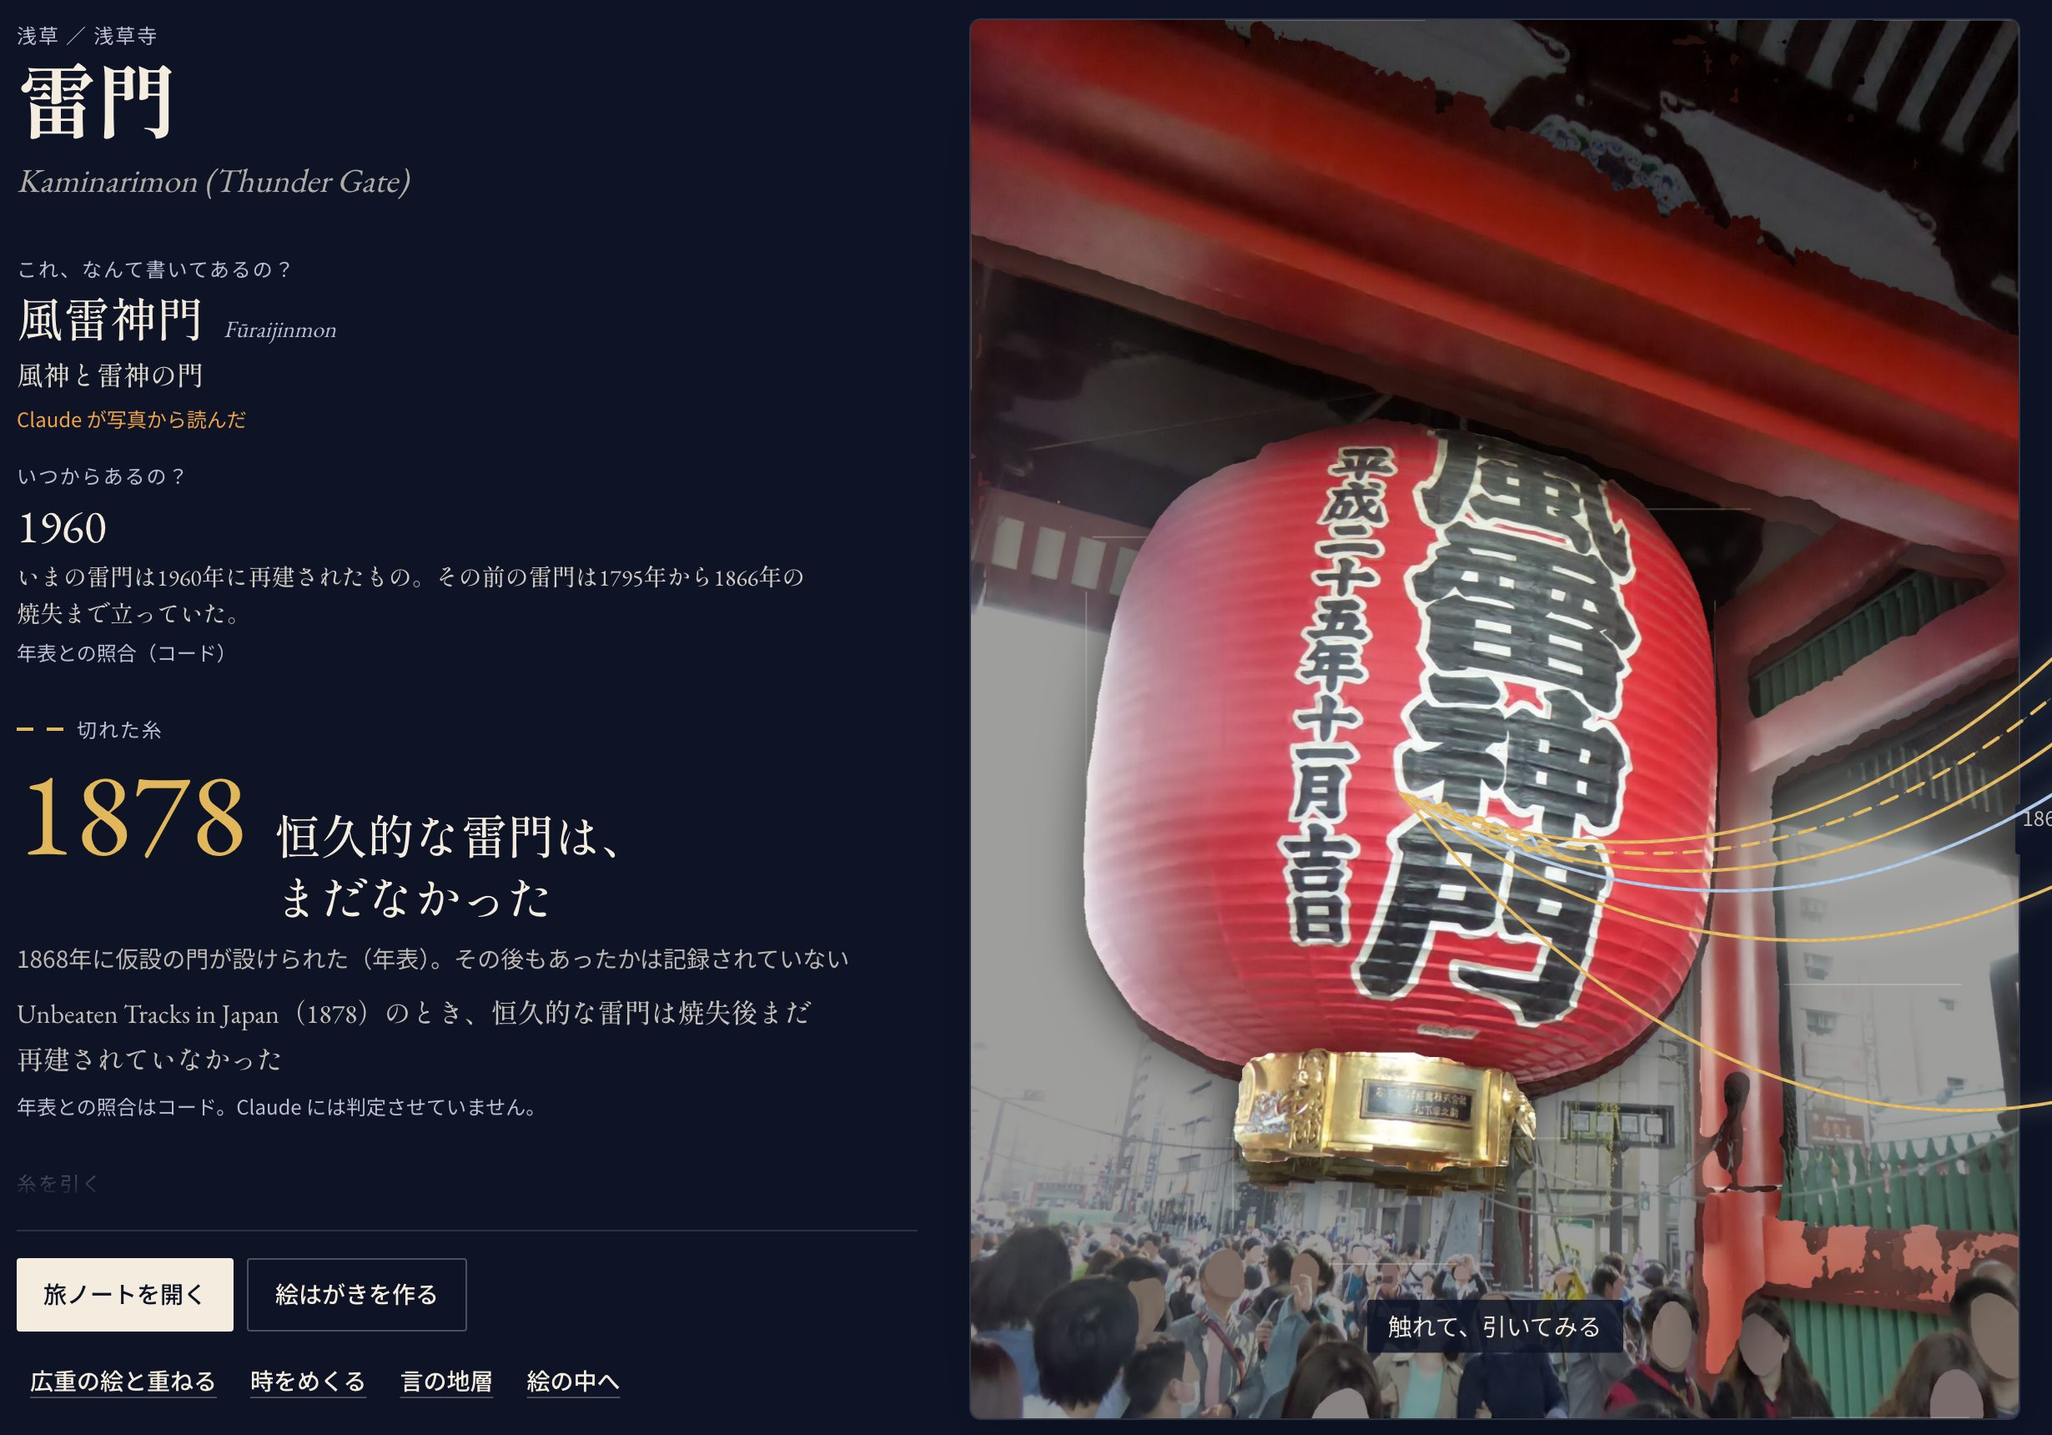
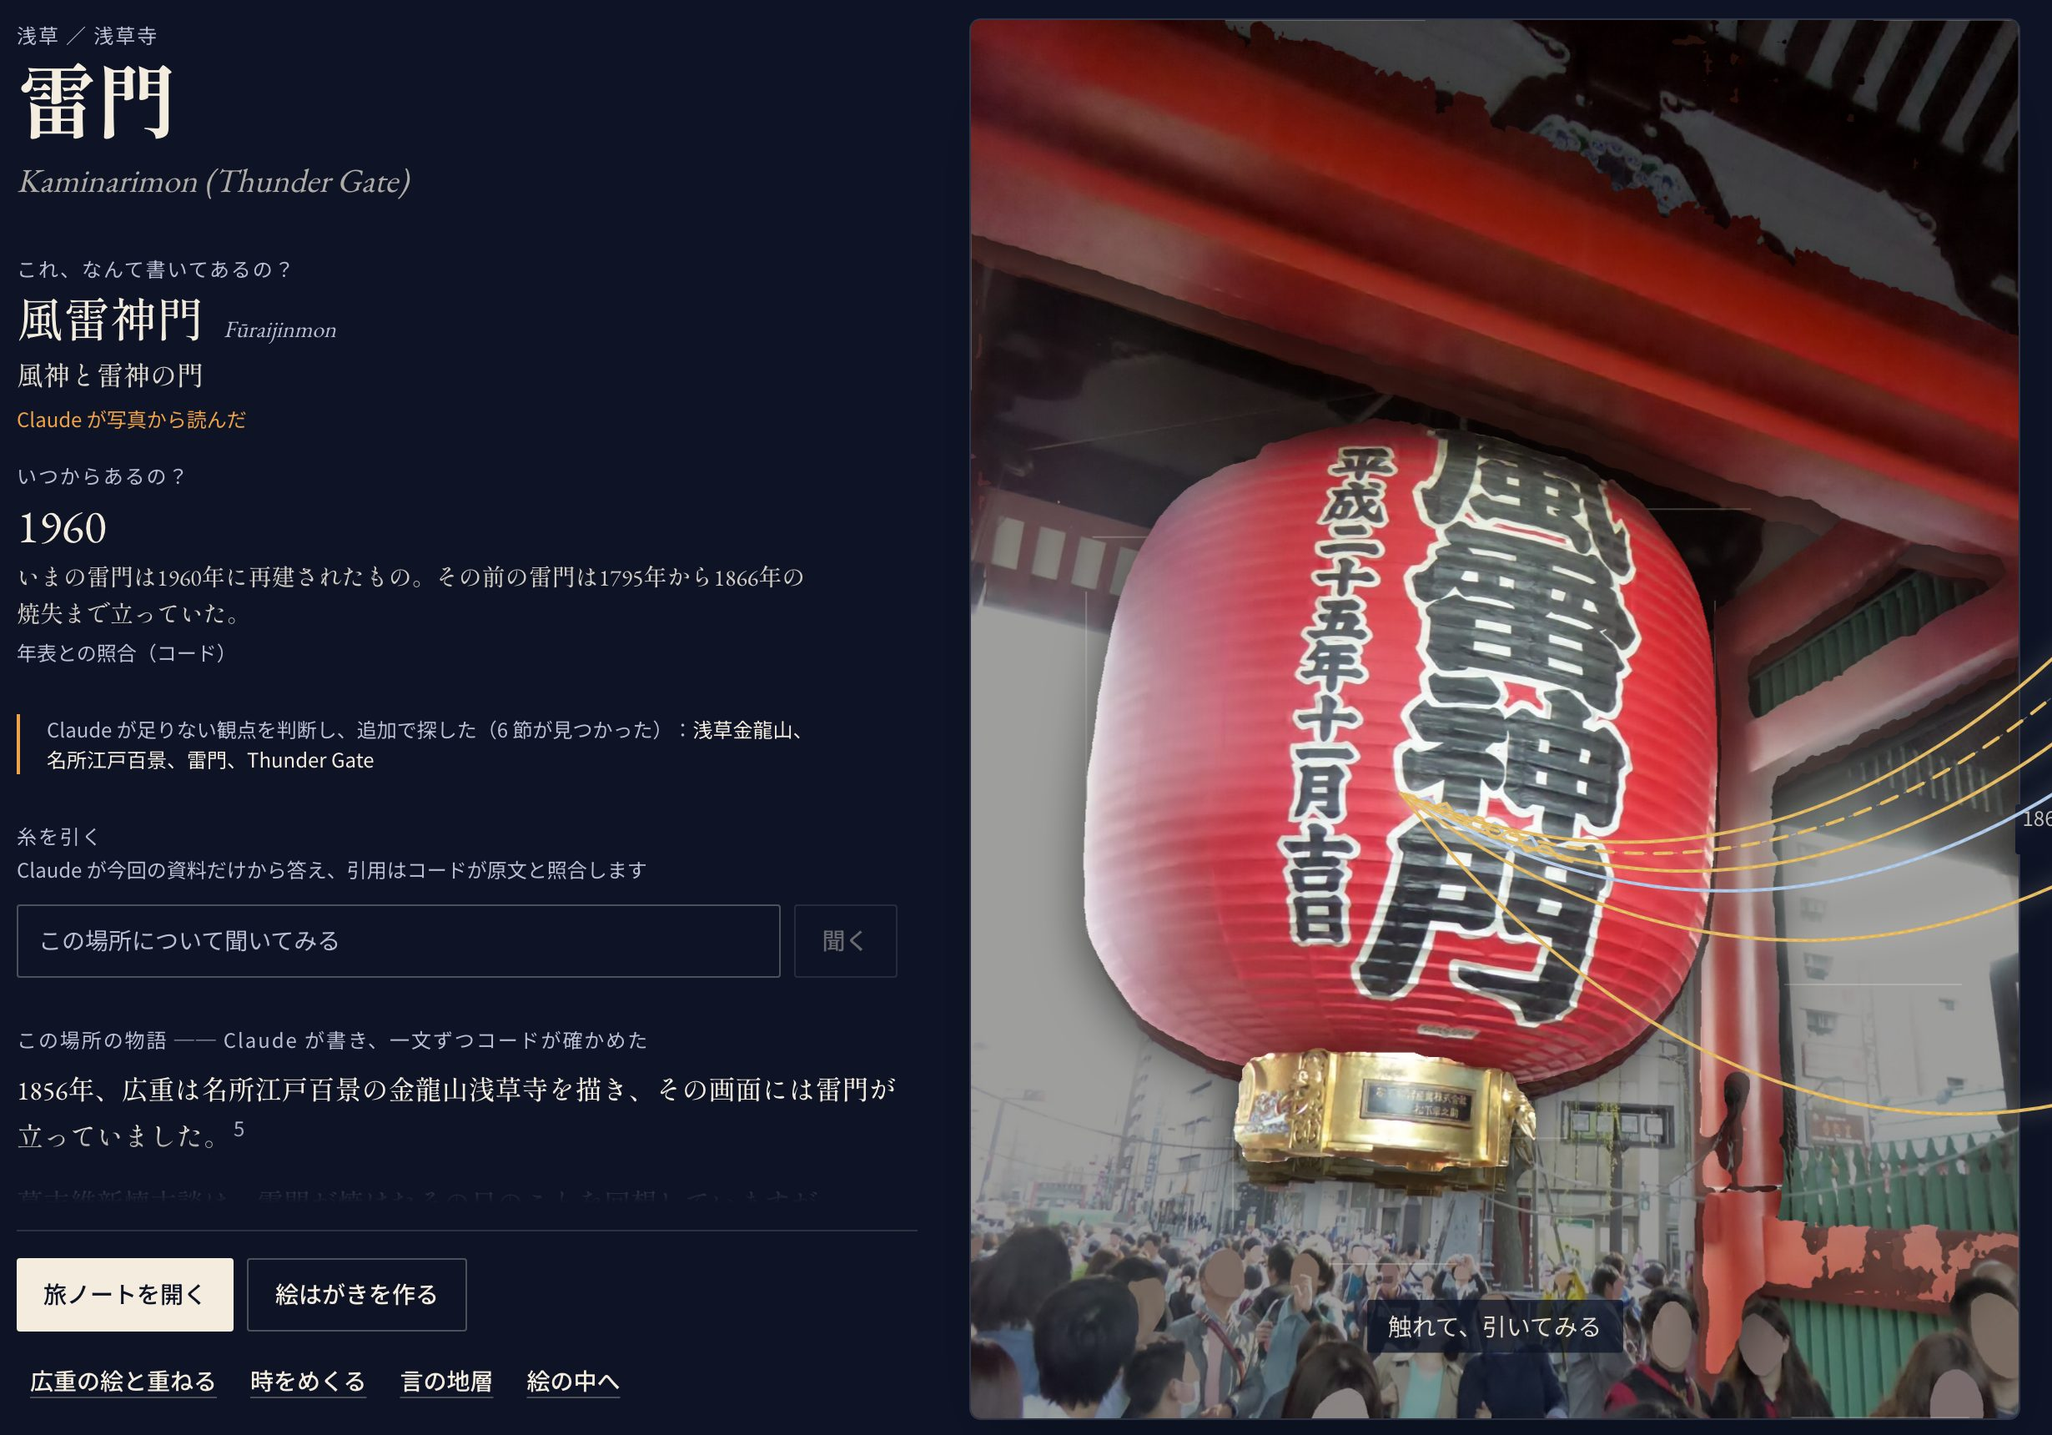
Critique round 8 (a judge who sees only the video, English, sound off): hold=broken also holds the source list's verdict and the cut of the threads; the print's 5.2 s hold runs on a real clock (it no longer stays after a run ends); photo labels in the reader's language and stacked, never overlapping

diff --git a/scripts/storyboard.ts b/scripts/storyboard.ts
@@ -1,0 +1,79 @@
+/**
+ * The video, beat by beat, as stills (docs/demo-script.md): the frames a viewer would see, in presenter
+ * mode, from the public recording (no Claude call). Output: $DATA_DIR/out/screens/storyboard/<lang>/
+ *   npx tsx --env-file=.env scripts/storyboard.ts <baseUrl> <replay id> <scene id> [--lang en] [--w 1920 --h 1080]
+ */
+import { mkdirSync } from "node:fs";
+import path from "node:path";
+import { chromium } from "playwright";
+
+const [base, replay, scene, ...rest] = process.argv.slice(2);
+if (!base || !replay || !scene) throw new Error("usage: storyboard.ts <baseUrl> <replay id> <scene id> [--lang en]");
+const opt = (k: string, d: string) => (rest.includes(k) ? rest[rest.indexOf(k) + 1] : d);
+const lang = opt("--lang", "ja");
+const W = Number(opt("--w", "1920"));
+const H = Number(opt("--h", "1080"));
+const out = path.join(process.env.DATA_DIR!, "out", "screens", "storyboard", lang);
+mkdirSync(out, { recursive: true });
+const browser = await chromium.launch({ args: ["--use-angle=metal", "--enable-gpu", "--ignore-gpu-blocklist"] });
+const ctx = await browser.newContext({ viewport: { width: W, height: H } });
+const u = new URL(base);
+await ctx.addCookies([
+  { name: "tsumugi_token", value: process.env.ACCESS_TOKEN!, domain: u.hostname, path: "/", httpOnly: true, sameSite: "Strict" },
+  { name: "tsumugi_lang", value: lang, domain: u.hostname, path: "/" },
+  { name: "tsumugi_presenter", value: process.env.PRESENTER_TOKEN!, domain: u.hostname, path: "/" },
+]);
+const page = await ctx.newPage();
+const fails: string[] = [];
+const shot = (n: string) => page.screenshot({ path: path.join(out, `${n}.png`) });
+const vis = (id: string) => page.getByTestId(id).filter({ visible: true }).first();
+
+// 1. the question: the landing
+await page.goto(`${base}/`, { waitUntil: "domcontentloaded" });
+await page.waitForTimeout(1500);
+await shot("1-landing");
+// 2. the first answer (the recording, held discovery, half speed)
+await page.goto(`${base}/replay/${replay}?present=1&hold=broken&speed=0.5`, { waitUntil: "domcontentloaded" });
+for (const s of [4, 8, 14, 20]) {
+  await page.waitForTimeout(s === 4 ? 4000 : s === 8 ? 4000 : 6000);
+  await shot(`2-answer-${s}s`);
+}
+await vis("note-link").waitFor({ timeout: 90_000 });
+await page.waitForTimeout(1500);
+await shot("2-answer-done");
+if ((await vis("broken-callout").count()) > 0) fails.push("hold=broken: the 1878 discovery showed before the years were turned");
+// 3. 1878: turn the years on the stage
+const handle = vis("time-handle");
+await handle.focus();
+for (let i = 0; i < 14; i++) await page.keyboard.press("Shift+ArrowUp");
+for (let i = 0; i < 8; i++) await page.keyboard.press("ArrowUp");
+await page.waitForTimeout(2200);
+await shot("3-1878");
+if ((await vis("broken-callout").count()) === 0) fails.push("1878: the discovery did not show after turning the years");
+// 4. the time panel: 1866, then let it flow to the rebuild
+await vis("time-toggle").click();
+const panel = page.getByTestId("time-panel");
+await panel.getByRole("slider").fill("1866");
+await page.waitForTimeout(1200);
+await shot("4-1866");
+await panel.getByRole("slider").fill("1961");
+await page.waitForTimeout(1500);
+await shot("4-1961");
+await page.keyboard.press("Escape");
+// 5. into the print
+await page.goto(`${base}/space/${scene}?enter=1&present=1`, { waitUntil: "domcontentloaded" });
+await page.waitForTimeout(4000);
+await shot("5-arrive");
+await page.waitForTimeout(5000);
+await shot("5-inside");
+// 6a. how it works
+await page.goto(`${base}/how`, { waitUntil: "domcontentloaded" });
+await page.waitForTimeout(1500);
+await shot("6a-how");
+// 6b. the close
+await page.goto(`${base}/`, { waitUntil: "domcontentloaded" });
+await page.waitForTimeout(1200);
+await shot("6b-close");
+console.log(JSON.stringify({ out, fails }, null, 1));
+await browser.close();
+process.exit(fails.length ? 1 : 0);

diff --git a/apps/web/src/app/live/photo-stage.tsx b/apps/web/src/app/live/photo-stage.tsx
@@ -100,7 +100,19 @@ export function PhotoStage({
   const masks = s.space?.ok && scene ? Object.entries(scene.elements).filter(([k]) => k !== "people") : [];
   const overlay = s.space?.aligned && scene?.alignment?.ok && scene.alignment.overlay && s.space.scene_id ? `/api/cache/scenes/${s.space.scene_id}/${scene.alignment.overlay}` : null;
   // the print wipes over the photo when the visual match lands, holds, then steps back (toggle brings it back)
-  const showOverlay = overlay && sinceVisual >= 0 && (overlayOn || sinceVisual < 5200);
+  // (the stage clock stops when a run is done, so the 5.2 s hold must not outlive a turn of the years)
+  const [autoHold, setAutoHold] = useState(false);
+  const visualAt = s.at.visual;
+  useEffect(() => {
+    if (visualAt === undefined) return;
+    const on = setTimeout(() => setAutoHold(true), 0);
+    const off = setTimeout(() => setAutoHold(false), 5200);
+    return () => {
+      clearTimeout(on);
+      clearTimeout(off);
+    };
+  }, [visualAt]);
+  const showOverlay = overlay && sinceVisual >= 0 && (overlayOn || (autoHold && sinceVisual < 5200 && !absent));
   const t = useDict(T);
   const lang = useLang();
   const placeName = s.place?.path[0]?.name; // leaf-first
@@ -156,17 +168,18 @@ export function PhotoStage({
         boxes
           .filter((e) => e.text_original)
           .slice(0, 3)
-          .map((e, i) => (
+          .map((e, i, all) => (
             <m.span
               key={i}
               className="absolute max-w-[45%] rounded-sm bg-night/85 px-2 py-0.5 text-caption shadow"
-              style={{ left: `${e.box.x * 100}%`, top: `calc(${e.box.y * 100}% - 1.6rem)` }}
+              // labels whose boxes start close together stack upward instead of overlapping
+              style={{ left: `${e.box.x * 100}%`, top: `calc(${e.box.y * 100}% - ${1.6 + 1.7 * all.slice(0, i).filter((p) => Math.abs(p.box.y - e.box.y) < 0.08).length}rem)` }}
               initial={{ opacity: 0, y: 6 }}
               animate={{ opacity: sincePlace > 2600 ? 0 : 1, y: 0 }}
               transition={{ delay: 0.5 + i * 0.15 }}
             >
               <span className="font-serif text-small text-lantern">{e.text_original}</span>
-              {e.meaning?.ja && <span className="ml-1 text-muted">{e.meaning.ja.slice(0, 18)}</span>}
+              {e.meaning?.[lang] && <span className="ml-1 text-muted">{e.meaning[lang].slice(0, lang === "en" ? 34 : 18)}</span>}
             </m.span>
           ))}
 

diff --git a/apps/web/src/app/live/live-stage.tsx b/apps/web/src/app/live/live-stage.tsx
@@ -205,7 +205,7 @@ export function LiveStage({ source, demoReplay, onExit }: { source: Source; demo
             kind: "ink",
             color: LAYER_COLOR[c.layer ?? "koto"],
             year: c.year,
-            cut: c.state === "absent",
+            cut: c.state === "absent" && !(holdBroken && !scrubbedOnce),
             dashed: c.state === "pending",
             at: s.at.threads! + i * 140,
           }),
@@ -219,7 +219,7 @@ export function LiveStage({ source, demoReplay, onExit }: { source: Source; demo
       });
     });
     return out;
-  }, [s.guide, s.at.guide, s.at.threads, objects, mainObj, cards, asks]);
+  }, [s.guide, s.at.guide, s.at.threads, objects, mainObj, cards, asks, holdBroken, scrubbedOnce]);
   const finished = phase === "done";
   const runLang = s.narrative?.lang;
   const [story, setStory] = useState<{ lang: "ja" | "en"; sentences: { text: string; claim_ids: string[]; assertion_type: string }[] } | null>(null);
@@ -410,7 +410,7 @@ export function LiveStage({ source, demoReplay, onExit }: { source: Source; demo
                   <YearAxis s={s} cards={cards} axisRef={axisRef} scrub={scrub} onScrub={finished && s.timeline ? onScrub : undefined} scrubLabel={ys?.label[lang]} />
                 </div>
                 <div className={`order-3 min-h-0 lg:order-none ${s.place === null ? "hidden" : ""}`}>
-                  <EvidenceColumn s={s} cards={cards} register={registerCard} hot={hot} setHot={setHot} expId={finished ? expId : null} />
+                  <EvidenceColumn s={s} cards={cards} register={registerCard} hot={hot} setHot={setHot} expId={finished ? expId : null} holdBroken={holdBroken && !scrubbedOnce} />
                 </div>
                 {panel === "backstage" && <Backstage s={s} onClose={() => setPanel(null)} />}
                 {panel === "time" && s.timeline != null && (

diff --git a/apps/web/src/app/live/evidence-column.tsx b/apps/web/src/app/live/evidence-column.tsx
@@ -20,8 +20,11 @@ export function EvidenceColumn({
   hot,
   setHot,
   expId = null,
+  holdBroken = false,
 }: {
   expId?: string | null;
+  /** ?hold=broken (recording): the "not there that year" verdict waits for the years to be turned */
+  holdBroken?: boolean;
   s: LiveState;
   cards: SourceCard[];
   register: (id: string) => (el: HTMLElement | null) => void;
@@ -53,7 +56,7 @@ export function EvidenceColumn({
     <section className="flex h-full min-h-0 flex-col gap-4" aria-label={t.evidence} data-testid="evidence-column">
       <div className="flex items-baseline justify-between">
         <h2 className="label">{t.title}</h2>
-        <span className="text-caption text-muted tabular-nums">{t.n(new Set(s.candidates.map((c) => c.passageId)).size)}</span>
+        {s.candidates.length > 0 && <span className="text-caption text-muted tabular-nums">{t.n(new Set(s.candidates.map((c) => c.passageId)).size)}</span>}
       </div>
       {/* what was searched, in one line: topic × language, "none" struck through */}
       <p className="present-hide flex flex-wrap gap-x-3 gap-y-1 text-caption text-muted" data-testid="search-matrix" aria-label={t.matrix}>
@@ -120,7 +123,7 @@ export function EvidenceColumn({
                     {c.excerpt.replace(/^Title:\s*/, "")}
                   </p>
                 )}
-                <div className="mt-1.5 flex flex-wrap gap-x-3 text-caption text-muted">
+                <div className={`mt-1.5 flex flex-wrap gap-x-3 text-caption text-muted ${holdBroken && c.existence?.value === "absent" ? "invisible" : ""}`}>
                   {c.existence && (
                     <span className={c.existence.value === "absent" ? "font-medium text-paper" : ""}>
                       {EXIST_LABEL[ui][c.existence.value]}

diff --git a/apps/web/src/app/live/text-column.tsx b/apps/web/src/app/live/text-column.tsx
@@ -228,6 +228,18 @@ export function TextColumn({
 
         {/* the friend's two questions, answered first */}
         <FirstAnswer s={s} />
+        {/* after the story, Claude's judgment stays as one line: what it found missing, what it searched for */}
+        {showStory && s.gap?.gaps && s.gap.gaps.length > 0 && (
+          <p className="border-l-2 border-lantern pl-4 text-caption text-muted" data-testid="claude-searched">
+            {t.searched(s.gap.found ?? 0)}
+            <span className="text-paper">
+              {s.gap.gaps
+                .flatMap((g) => g.terms)
+                .slice(0, 4)
+                .join(t.sep)}
+            </span>
+          </p>
+        )}
 
         {/* the discovery: the broken thread */}
         <AnimatePresence>
@@ -337,18 +349,6 @@ export function TextColumn({
         )}
 
         {/* the viewpoint may land after the story has started: keep it, below the story */}
-        {/* after the story, Claude's judgment stays as one line: what it found missing, what it searched for */}
-        {showStory && s.gap?.gaps && s.gap.gaps.length > 0 && (
-          <p className="border-l-2 border-lantern pl-4 text-caption text-muted" data-testid="claude-searched">
-            {t.searched(s.gap.found ?? 0)}
-            <span className="text-paper">
-              {s.gap.gaps
-                .flatMap((g) => g.terms)
-                .slice(0, 4)
-                .join(t.sep)}
-            </span>
-          </p>
-        )}
         {showStory && <div className="present-hide"><ViewpointCard s={s} /></div>}
         {showStory && world}
 

diff --git a/apps/web/src/app/ui/legend.tsx b/apps/web/src/app/ui/legend.tsx
@@ -43,7 +43,7 @@ export function LoomLegend() {
   return (
     <p className="flex flex-wrap items-center gap-x-4 gap-y-1 text-caption text-muted" data-testid="pencil-legend">
       {l.q.map((q) => (
-        <span key={q.k} className="inline-flex items-center gap-1.5">
+        <span key={q.k} className="present-hide inline-flex items-center gap-1.5">
           <svg width="14" height="4" aria-hidden>
             <path d="M0 2 H14" stroke={q.c} strokeWidth="2" />
           </svg>
@@ -56,13 +56,13 @@ export function LoomLegend() {
         </svg>
         {l.ink} · {l.cut}
       </span>
-      <span className="inline-flex items-center gap-1.5">
+      <span className="present-hide inline-flex items-center gap-1.5">
         <svg width="20" height="4" aria-hidden>
           <path d="M0 2 H20" stroke="var(--paper)" strokeOpacity="0.55" strokeWidth="1" />
         </svg>
         <span className="text-paper">{l.guide}</span> {l.guideMeans}
       </span>
-      <span className="inline-flex items-center gap-1.5">
+      <span className="present-hide inline-flex items-center gap-1.5">
         <Pencil>{l.pencil}</Pencil> {l.pencilMeans}
       </span>
       <span>{l.tail}</span>

diff --git a/apps/web/src/app/live/time-turn.tsx b/apps/web/src/app/live/time-turn.tsx
@@ -170,7 +170,7 @@ export function TimeTurn({ data, sceneId, scene, photo, cards }: { data: Timelin
   return (
     <div className="grid gap-8 lg:grid-cols-[minmax(0,5fr)_minmax(0,4fr)]" data-testid="time-turn">
       {/* the window */}
-      <div className="relative mx-auto h-[min(50vh,32rem)] max-w-full lg:h-[min(60vh,40rem)] overflow-hidden rounded-md bg-ink" style={{ aspectRatio: aspect }}>
+      <div className="turn-pic relative mx-auto h-[min(50vh,32rem)] max-w-full lg:h-[min(60vh,40rem)] overflow-hidden rounded-md bg-ink" style={{ aspectRatio: aspect }}>
         {photo && (
           // eslint-disable-next-line @next/next/no-img-element -- the visitor's (face-blurred) photo
           <img src={photo} alt="" className={`absolute inset-0 size-full object-cover transition-[filter] duration-700 ${stood ? "" : "brightness-[0.28] grayscale"}`} />

diff --git a/scripts/landing-shots.ts b/scripts/landing-shots.ts
@@ -24,7 +24,7 @@ try {
       { name: "tsumugi_lang", value: lang, domain: u.hostname, path: "/" },
     ]);
     const page = await ctx.newPage();
-    await page.goto(`${base}/replay/${id}`, { waitUntil: "domcontentloaded" });
+    await page.goto(`${base}/replay/${id}?hold=broken`, { waitUntil: "domcontentloaded" }); // the hero does not give away 1878
     await page.getByTestId("note-link").waitFor({ timeout: 120_000 });
     await page.getByTestId("stage-overlay").waitFor({ state: "detached", timeout: 12_000 }).catch(() => {});
     await page.waitForTimeout(1200);

diff --git a/apps/web/src/app/live/stage-panel.tsx b/apps/web/src/app/live/stage-panel.tsx
@@ -14,7 +14,7 @@ export function StagePanel({ title, onClose, children, testid, wide = false }: {
       aria-label={title}
       data-testid={testid}
     >
-      <div className="flex items-baseline justify-between">
+      <div className="sticky -top-5 z-10 -mx-6 -mt-5 flex items-baseline justify-between bg-night-2 px-6 pt-5 pb-2">
         <h2 className="font-serif text-lead">{title}</h2>
         <Button variant="quiet" onClick={onClose}>
           {useLang() === "ja" ? "閉じる" : "Close"}

diff --git a/apps/web/src/app/live/stage-chrome.tsx b/apps/web/src/app/live/stage-chrome.tsx
@@ -39,7 +39,7 @@ export function StepRail({ s, elapsed, finished }: { s: LiveState; elapsed: numb
         );
       })}
       <li className="text-caption text-muted tabular-nums">
-        {finished ? t.fin : eta > 0 ? t.eta(eta) : t.soon}
+        {finished ? t.fin : <span className="present-hide">{eta > 0 ? t.eta(eta) : t.soon}</span>}
       </li>
     </ol>
   );

diff --git a/apps/web/src/app/globals.css b/apps/web/src/app/globals.css
@@ -98,6 +98,9 @@ html[data-present] .answer-col {
 html[data-present] .present-only {
   display: block;
 }
+html[data-present] .turn-pic {
+  height: min(46vh, 30rem);
+}
 html[data-present] .present-hide {
   display: none !important;
 }
